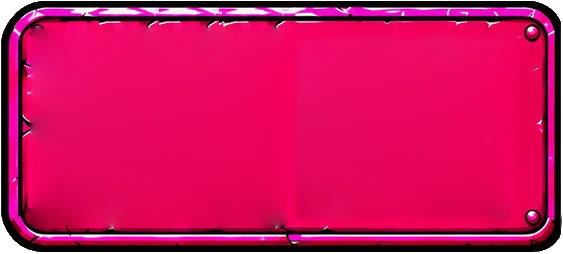
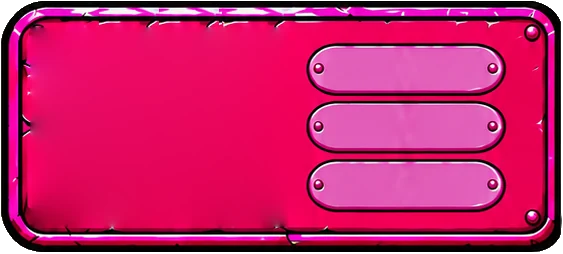
Revert "Cartoon : historique en 3 grosses bulles rondes à contour noir, panneau sans pilules"
This reverts commit a7cbc2d9c05c2fbfcd06aeeef23e02e1ed8616b6.

Changed region(s): [[0.5133, 0.1654, 0.9059, 0.8543]]

diff --git a/index.html b/index.html
@@ -4214,18 +4214,6 @@ html.cartoon body #game#game.sk.p2:not(.pn):not(.bcg) #grid .num.num.bnc:not(.ng
 /* boutons du bas : aucune animation / ombre héritée (Safari applique les animations malgré !important) */
 html.cartoon body #game#game.sk.p2:not(.pn):not(.bcg) footer>button,html.cartoon body #game#game.sk.p2:not(.pn):not(.bcg) footer>button.armed{animation:none!important;-webkit-animation:none!important;text-shadow:none!important;-webkit-text-stroke:0!important;box-shadow:none!important;filter:none!important;outline:0!important}
 html.cartoon body #game#game.sk.p2:not(.pn):not(.bcg) footer>button::before,html.cartoon body #game#game.sk.p2:not(.pn):not(.bcg) footer>button::after{animation:none!important;transition:none!important;content:none!important;display:none!important}
-/* historique : 3 bulles rondes en triangle (2 en haut, 1 en bas), contour noir épais */
-html.cartoon body #game#game.sk.p2:not(.pn):not(.bcg) #scores>.sc.act>.pills{left:0!important;top:0!important;width:100%!important;height:100%!important;display:block!important}
-html.cartoon body #game#game.sk.p2:not(.pn):not(.bcg) #scores>.sc.act .pill{position:absolute!important;width:calc(102*var(--s))!important;height:calc(102*var(--s))!important;margin:0!important;border-radius:50%!important;translate:-50% -50%!important;
-  box-shadow:inset 0 0 0 calc(7*var(--s)) #0b1220,0 calc(5*var(--s)) 0 rgba(0,0,0,.3)!important;font-size:calc(37*var(--s))!important;letter-spacing:-.02em!important}
-html.cartoon body #game#game.sk.p2:not(.pn):not(.bcg) #scores>.sc.act .pill:nth-child(1){left:calc(357*var(--s))!important;top:calc(80*var(--s))!important}
-html.cartoon body #game#game.sk.p2:not(.pn):not(.bcg).curR #scores>.sc.act .pill:nth-child(1){left:calc(206*var(--s))!important}
-html.cartoon body #game#game.sk.p2:not(.pn):not(.bcg) #scores>.sc.act .pill:nth-child(2){left:calc(469*var(--s))!important;top:calc(80*var(--s))!important}
-html.cartoon body #game#game.sk.p2:not(.pn):not(.bcg).curR #scores>.sc.act .pill:nth-child(2){left:calc(94*var(--s))!important}
-html.cartoon body #game#game.sk.p2:not(.pn):not(.bcg) #scores>.sc.act .pill:nth-child(3){left:calc(413*var(--s))!important;top:calc(172*var(--s))!important}
-html.cartoon body #game#game.sk.p2:not(.pn):not(.bcg).curR #scores>.sc.act .pill:nth-child(3){left:calc(150*var(--s))!important}
-html.cartoon body #game#game.sk.p2:not(.pn):not(.bcg) #scores>.sc:not(.act)>.pills{gap:calc(8*var(--s))!important;left:calc(-4*var(--s))!important;top:calc(192*var(--s))!important;width:auto!important}
-html.cartoon body #game#game.sk.p2:not(.pn):not(.bcg) #scores>.sc:not(.act) .pill{width:calc(66*var(--s))!important;height:calc(66*var(--s))!important;border-radius:50%!important;box-shadow:inset 0 0 0 calc(5*var(--s)) #0b1220,0 calc(4*var(--s)) 0 rgba(0,0,0,.25)!important;font-size:calc(24*var(--s))!important}
 /* bas : une planche de 6 états (normal, double, triple, spew, menu, annuler) — un seul affiché, même place et même taille */
 html.cartoon body #game#game.sk.p2:not(.pn):not(.bcg) footer{position:absolute!important;left:calc(var(--ox) + calc(16*var(--s)))!important;right:auto!important;top:calc(var(--oy) + 1478*var(--s))!important;bottom:auto!important;width:calc(820*var(--s))!important;height:calc(354*var(--s))!important;margin:0!important;padding:0!important;
   display:block!important;background:url(art/k5/ft_n.webp) center/100% 100% no-repeat!important;box-shadow:none!important;border:0!important;outline:0!important;border-radius:0!important;overflow:visible!important;transform:none!important;translate:none!important;aspect-ratio:auto!important;filter:none!important}

diff --git a/sw.js b/sw.js
@@ -1,7 +1,7 @@
 /* Loubard Fléchard — hors ligne + mises à jour automatiques.
    Page : réseau d'abord (version la plus récente), cache si pas de réseau.
    Change VERSION à chaque mise à jour publiée. */
-const VERSION='lf-178';
+const VERSION='lf-177';
 const FILES=['./','index.html','manifest.json','icon-180.png','icon-192.png','icon-512.png'];
 self.addEventListener('install',e=>{e.waitUntil(caches.open(VERSION)
   .then(c=>Promise.all(FILES.map(f=>fetch(f,{cache:'reload'}).then(r=>r.ok&&c.put(f,r)).catch(()=>{}))))
